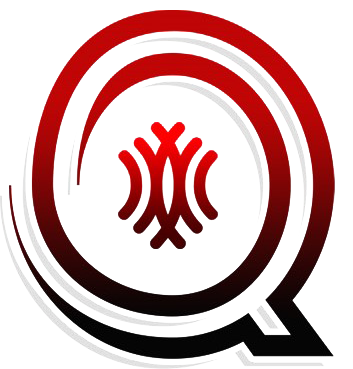
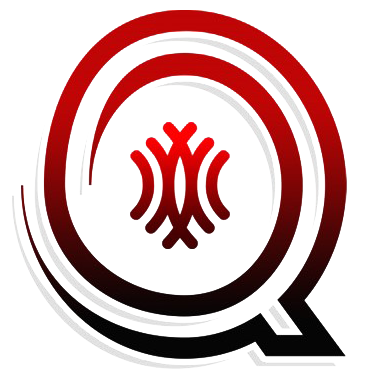
Created Navagation bar and changed footer

diff --git a/src/components/header.js b/src/components/header.js
@@ -1,19 +1,21 @@
 import { Link } from "gatsby"
 import PropTypes from "prop-types"
 import React from "react"
+import Logo from "../components/logo"
 
-const Header = ({ siteTitle }) => (
+const Header = ({ siteTitle, menuLinks }) => (
   <header
     style={{
-      background: `rebeccapurple`,
+      background: `lavenderblush`,
       marginBottom: `1.45rem`,
+      borderBottom: `#cb1741 solid`,
     }}
   >
     <div
       style={{
         margin: `0 auto`,
-        maxWidth: 960,
-        padding: `1.45rem 1.0875rem`,
+        maxWidth: 420,
+        //padding: `1.45rem 1.0875rem`,
       }}
     >
       <h1 style={{ margin: 0 }}>
@@ -25,9 +27,34 @@ const Header = ({ siteTitle }) => (
           }}
         >
           {siteTitle}
+          <Logo />
         </Link>
       </h1>
-    </div>
+      </div>
+      <div style={{  }}>
+        {" "}
+        <nav style={{ minWidth:'100%', margin:'0', textAlign:'center', textTransform:'uppercase', fontSize:'16px' }}>
+          {" "}
+          <ul style={{ display: "flex", flex: 1, margin:0 }}>
+            {" "}
+            {menuLinks.map(link => (
+              <li
+                key={link.name}
+                style={{ listStyleType: `none`, padding: `0.5rem`, width:'20%' }}
+              >
+                {" "}
+                <Link
+                  style={{ color: `black`, textDecoration: "none" }}
+                  to={link.link}
+                >
+                  {" "}
+                  {link.name}{" "}
+                </Link>{" "}
+              </li>
+            ))}{" "}
+          </ul>{" "}
+        </nav>{" "}
+      </div>
   </header>
 )
 

diff --git a/src/components/layout.js b/src/components/layout.js
@@ -8,6 +8,7 @@
 import React from "react"
 import PropTypes from "prop-types"
 import { useStaticQuery, graphql } from "gatsby"
+import Logo from "../components/Logo"
 
 import Header from "./header"
 import "./layout.css"
@@ -18,6 +19,10 @@ const Layout = ({ children }) => {
       site {
         siteMetadata {
           title
+            menuLinks {
+              name
+              link
+            }
         }
       }
     }
@@ -25,7 +30,7 @@ const Layout = ({ children }) => {
 
   return (
     <>
-      <Header siteTitle={data.site.siteMetadata.title} />
+      <Header siteTitle={Logo} menuLinks={data.site.siteMetadata.menuLinks} />
       <div
         style={{
           margin: `0 auto`,
@@ -36,9 +41,8 @@ const Layout = ({ children }) => {
       >
         <main>{children}</main>
         <footer>
-          © {new Date().getFullYear()}, Built with
-          {` `}
-          <a href="https://www.gatsbyjs.org">Gatsby</a>
+          © {new Date().getFullYear()}, QUOTE... UNQUOTE, INC. (QUQ) IS A 501C3
+          TAX-EXEMPT NONPROFIT INCORPORATED IN 1979.
         </footer>
       </div>
     </>

diff --git a/gatsby-config.js b/gatsby-config.js
@@ -3,6 +3,28 @@ module.exports = {
     title: `Quote Unquote, Inc.`,
     description: `Quote Unquote is relaunching operations!`,
     author: `@GabrielWest, @OffTheGrid Development`,
+    menuLinks: [
+      {
+        name: "home",
+        link: "/",
+      },
+      {
+        name: "about us",
+        link: "",
+      },
+      {
+        name: "services",
+        link: "/services",
+      },
+      {
+        name: "news",
+        link: "/news",
+      },
+      {
+        name: "contact us",
+        link: "/contact",
+      }
+    ]
   },
   plugins: [
     `gatsby-plugin-react-helmet`,

diff --git a/src/components/logo.js b/src/components/logo.js
@@ -1,0 +1,21 @@
+import React from "react"
+import { useStaticQuery, graphql } from "gatsby"
+import Img from "gatsby-image"
+
+const Logo = () => {
+  const data = useStaticQuery(graphql`
+    query {
+      placeholderImage: file(relativePath: { eq: "QUQlogo.png" }) {
+        childImageSharp {
+          fluid(maxWidth: 700) {
+            ...GatsbyImageSharpFluid
+          }
+        }
+      }
+    }
+  `)
+
+  return <Img fluid={data.placeholderImage.childImageSharp.fluid} />
+}
+
+export default Logo

diff --git a/src/pages/contact.js b/src/pages/contact.js
@@ -1,0 +1,16 @@
+import React from "react"
+import { Link } from "gatsby"
+
+import Layout from "../components/layout"
+import SEO from "../components/seo"
+
+const ContactPage = () => (
+  <Layout>
+    <SEO title="Contact Us" />
+    <h1>THIS IS WHERE ALL OF THE CONTACT INFO WILL GO</h1>
+    <p>You can reach us at email@domain.net</p>
+    <Link to="/">Go back to the homepage</Link>
+  </Layout>
+)
+
+export default ContactPage

diff --git a/src/pages/services.js b/src/pages/services.js
@@ -1,0 +1,16 @@
+import React from "react"
+import { Link } from "gatsby"
+
+import Layout from "../components/layout"
+import SEO from "../components/seo"
+
+const ServicesPage = () => (
+  <Layout>
+    <SEO title="Services" />
+    <h1>THIS WILL BE OUR SERVICES</h1>
+    <p>We will sell lots of things and offer even more!</p>
+    <Link to="/">Go back to the homepage</Link>
+  </Layout>
+)
+
+export default ServicesPage

diff --git a/src/pages/about.js b/src/pages/about.js
@@ -1,0 +1,16 @@
+import React from "react"
+import { Link } from "gatsby"
+
+import Layout from "../components/layout"
+import SEO from "../components/seo"
+
+const AboutPage = () => (
+  <Layout>
+    <SEO title="About Us" />
+    <h1>THIS WILL BE WHERE YOU SEE WHO WE ARE</h1>
+    <p>Hint, we're pretty amazing.</p>
+    <Link to="/">Go back to the homepage</Link>
+  </Layout>
+)
+
+export default AboutPage

diff --git a/src/pages/news.js b/src/pages/news.js
@@ -1,0 +1,16 @@
+import React from "react"
+import { Link } from "gatsby"
+
+import Layout from "../components/layout"
+import SEO from "../components/seo"
+
+const NewsPage = () => (
+  <Layout>
+    <SEO title="News" />
+    <h1>THIS WILL BE THE NEWS PAGE</h1>
+    <p>Welcome to the news</p>
+    <Link to="/">Go back to the homepage</Link>
+  </Layout>
+)
+
+export default NewsPage

diff --git a/src/components/image.js b/src/components/image.js
@@ -16,7 +16,7 @@ import Img from "gatsby-image"
 const Image = () => {
   const data = useStaticQuery(graphql`
     query {
-      placeholderImage: file(relativePath: { eq: "gatsby-astronaut.png" }) {
+      placeholderImage: file(relativePath: { eq: "QUQupd.png" }) {
         childImageSharp {
           fluid(maxWidth: 300) {
             ...GatsbyImageSharpFluid

diff --git a/src/components/layout.css b/src/components/layout.css
@@ -511,7 +511,7 @@ th {
   font-weight: bold;
 }
 li {
-  margin-bottom: calc(1.45rem / 2);
+  /*margin-bottom: calc(1.45rem / 2);*/
 }
 ol li {
   padding-left: 0;
